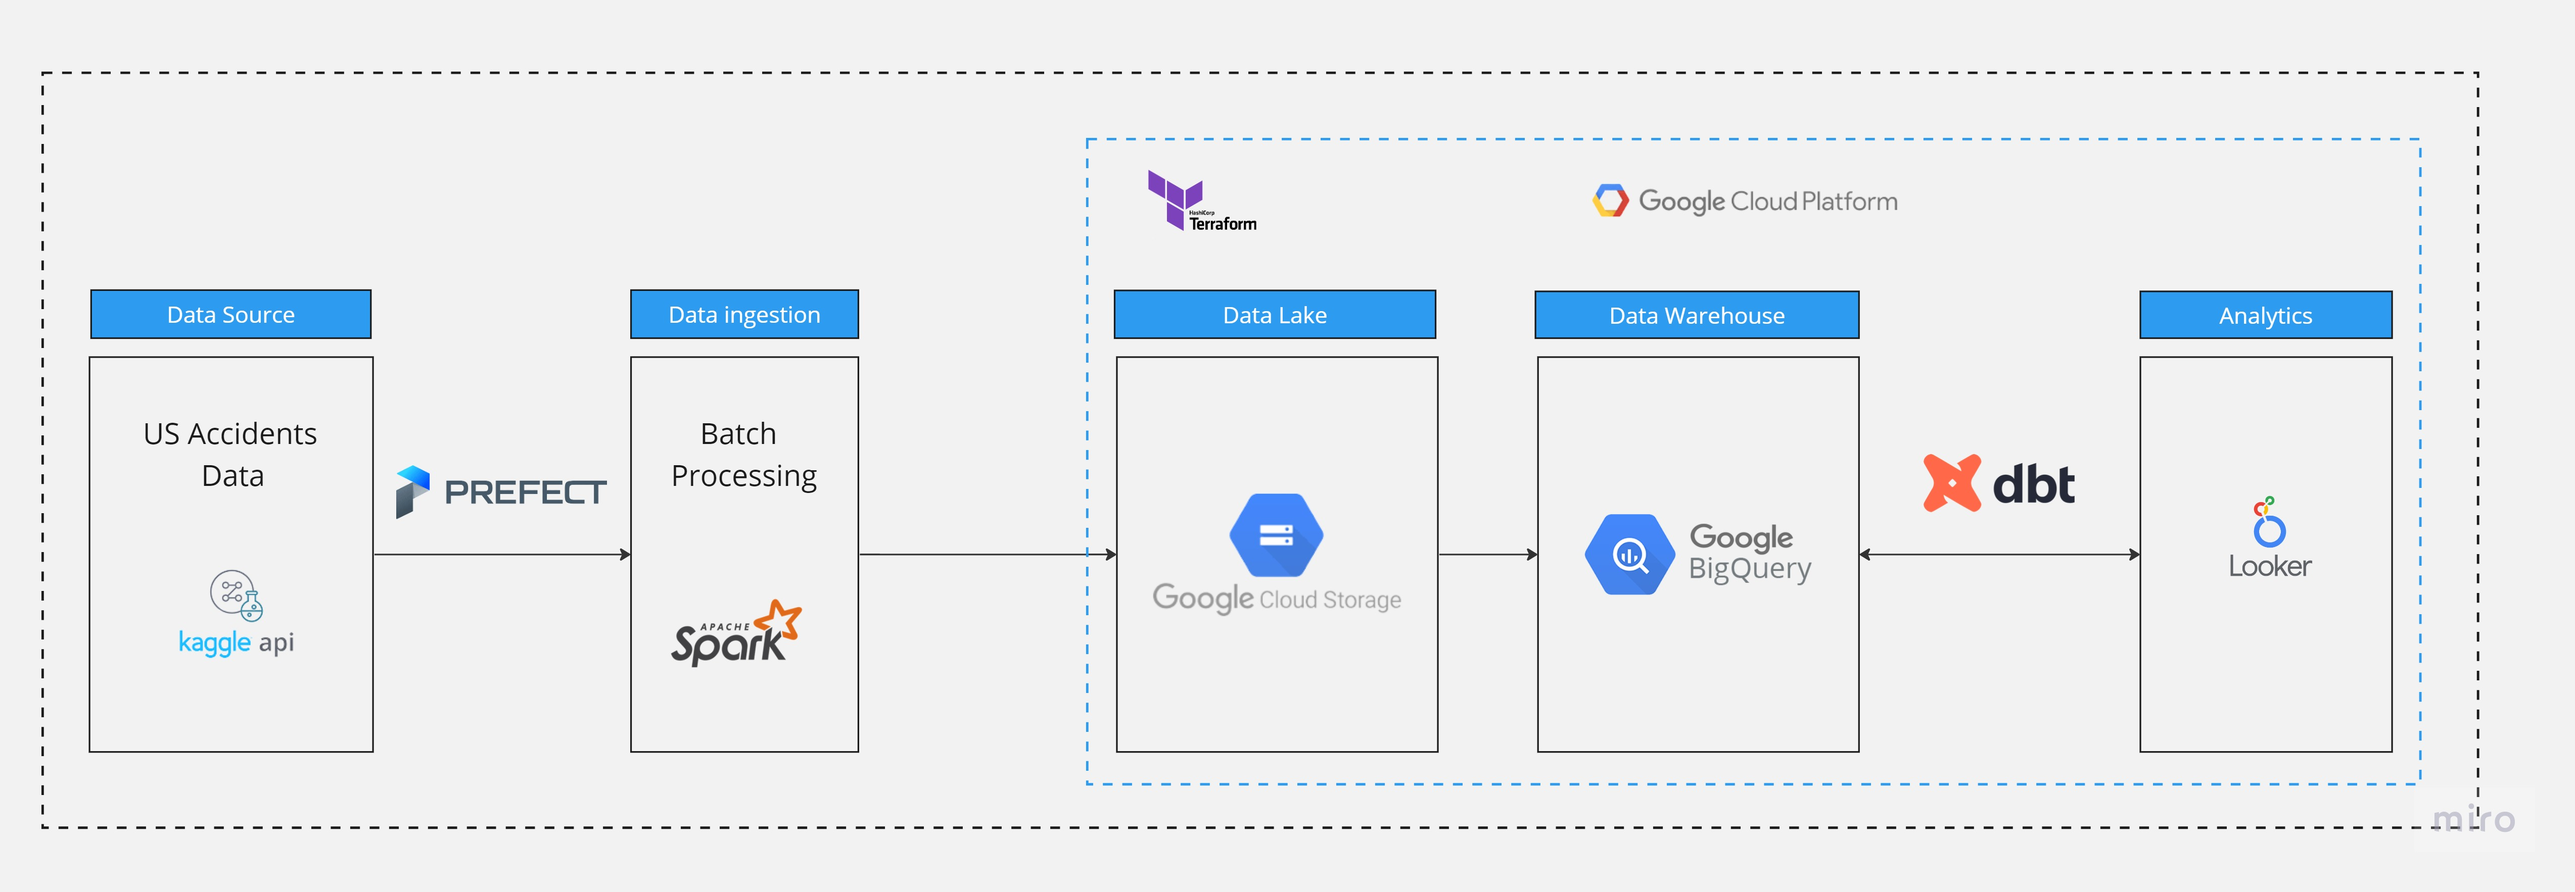
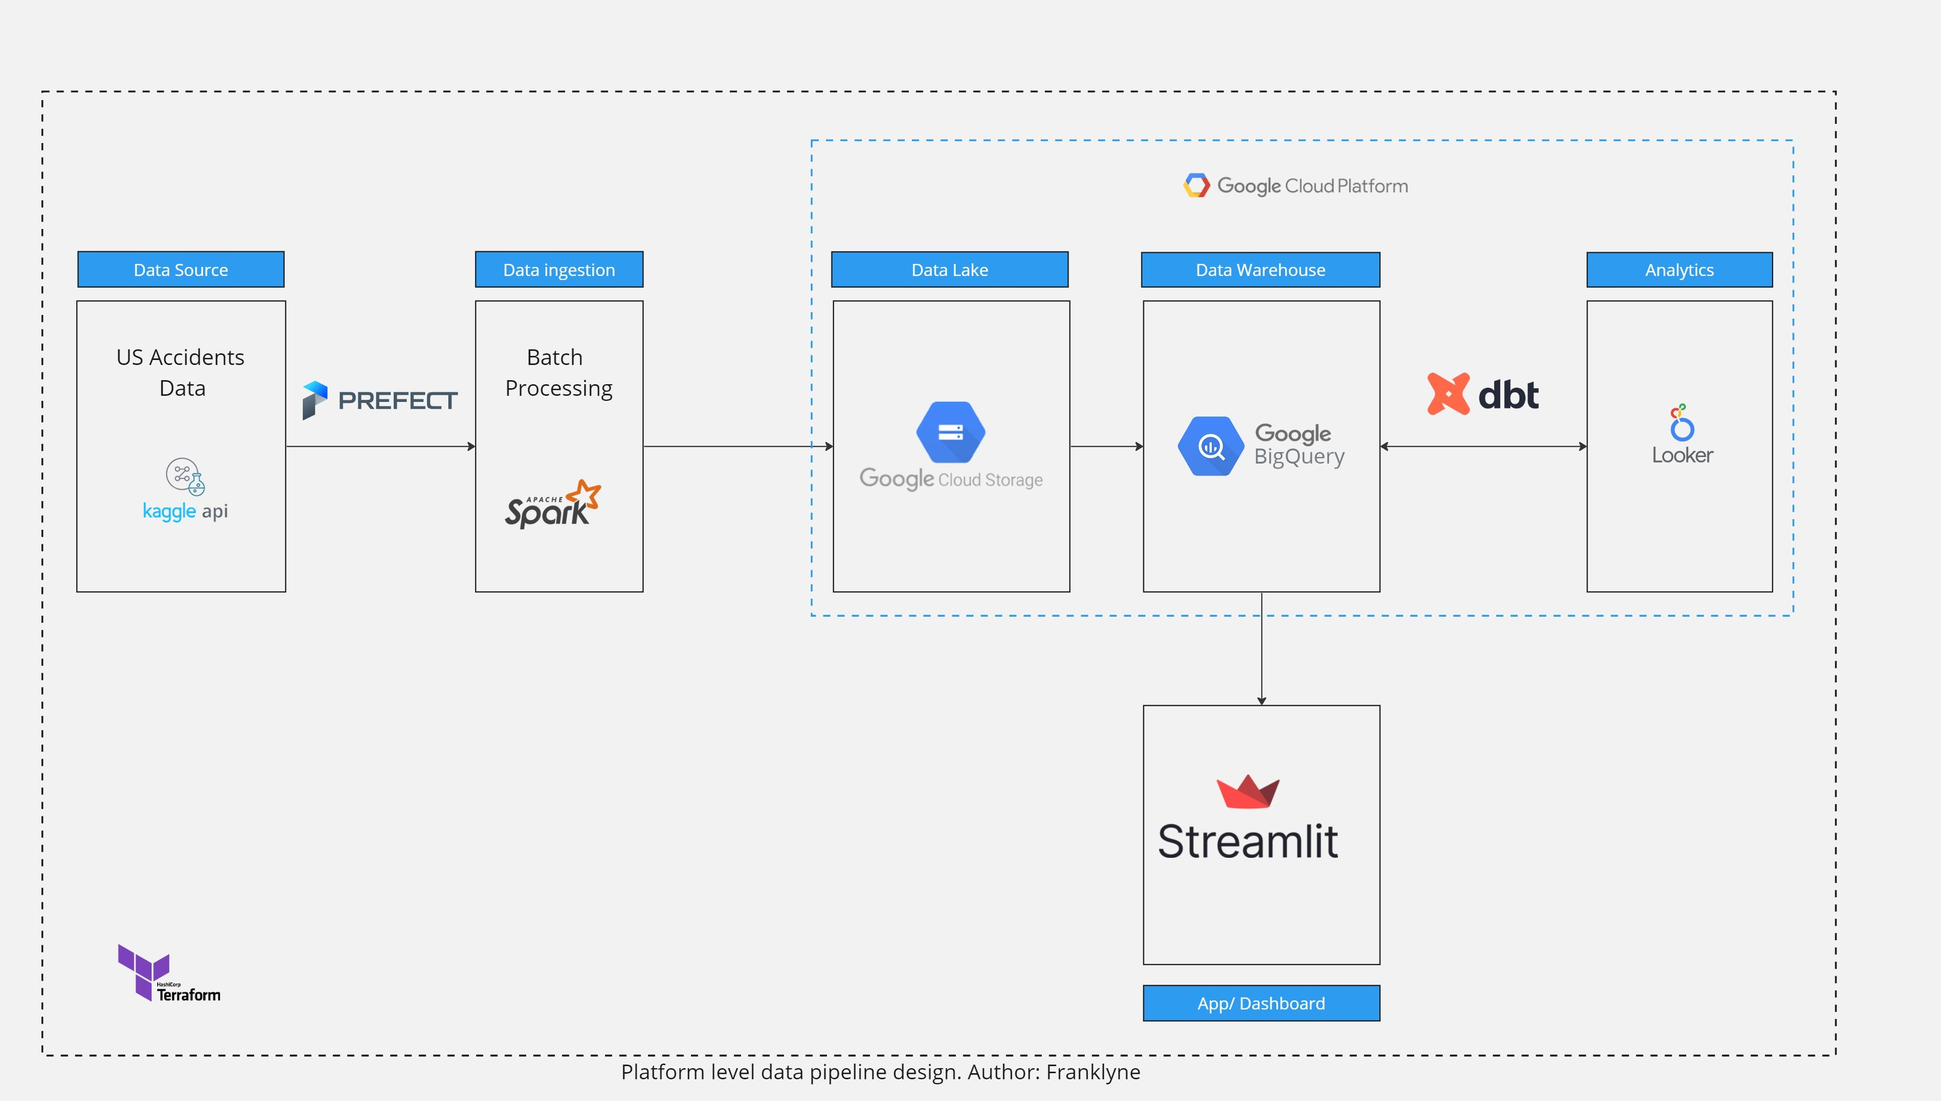
architecture

diff --git a/streamlit/dashboard.py b/streamlit/dashboard.py
@@ -1,0 +1,91 @@
+import pandas as pd 
+import streamlit as st 
+import seaborn as sns 
+import matplotlib.pyplot as plt 
+import plotly.express as px 
+import plotly.graph_objects as go 
+from google.cloud import bigquery 
+import os
+
+# Authenticate with Google Cloud 
+creds_path = os.environ['GOOGLE_APPLICATION_CREDENTIALS']
+client = bigquery.Client.from_service_account_json(creds_path)
+
+# Define a function to load data from BigQuery 
+@st.cache_data 
+def load_data(): 
+    query = """ 
+        SELECT severity,severity_description,state,city,weather_condition
+        FROM `de-project-franklyne.production.fact_accidents` 
+    """ 
+    results = client.query(query).to_dataframe() 
+    return results
+
+# Load the US Accidents dataset into a DataFrame 
+accidents = load_data() 
+
+# Set app title
+st.title("US Accidents Analysis")
+
+# Display total count of accidents
+# st.write(f"Total number of accidents: {accidents.shape[0]}")
+
+# Sidebar options 
+analysis_type = st.sidebar.selectbox("Select Analysis Type", ("Accidents by State", "Accidents by City", "Accident Severity by Weather Condition", "Accident Severity Distribution")) 
+
+# Accidents by State 
+if analysis_type == "Accidents by State": 
+    st.header("US Accidents by State") 
+    state_counts = accidents['state'].value_counts()[:20]
+    fig = px.bar(x=state_counts.index, y=state_counts.values)
+    
+    # Add X and Y axis labels
+    fig.update_xaxes(title_text="State")
+    fig.update_yaxes(title_text="Number of Accidents")
+    
+    st.plotly_chart(fig)
+
+# Accidents by City
+elif analysis_type == "Accidents by City":
+    st.header("US Accidents by City")
+    city_counts = accidents['city'].value_counts().sort_values(ascending=False)[:20]
+    fig, ax = plt.subplots()
+    sns.barplot(x=city_counts.index, y=city_counts.values, ax=ax)
+
+    # Add X and Y axis labels
+    ax.set_xlabel("City")
+    ax.set_ylabel("Number of Accidents")
+
+    # Add plot title
+    ax.set_title("Number of Accidents by City")
+
+    plt.xticks(rotation=90)
+    
+    # Set figure size to fit Streamlit app
+    fig.set_size_inches(12, 8)
+    
+    st.pyplot(fig)
+
+# Accident Severity by Weather Condition 
+elif analysis_type == "Accident Severity by Weather Condition": 
+    st.header("Accident Severity by Weather Condition") 
+    weather_severity = accidents.groupby('weather_condition')['severity'].mean().sort_values(ascending=False) 
+    fig = px.bar(x=weather_severity.index, y=weather_severity.values) 
+    
+    # Add X and Y axis labels
+    fig.update_xaxes(title_text="Weather Condition")
+    fig.update_yaxes(title_text="Severity")
+    
+    st.plotly_chart(fig) 
+
+# Accident Severity Distribution 
+elif analysis_type == "Accident Severity Distribution":
+    st.header("Accident Severity Distribution")
+    severity_counts = accidents['severity_description'].value_counts()
+    values = severity_counts.values.tolist()
+    labels = severity_counts.index.tolist()
+    colors = px.colors.qualitative.Pastel
+    fig = go.Figure(data=[go.Pie(labels=labels, values=values, hole=.3)])
+    fig.update_traces(marker=dict(colors=colors))
+    fig.update_layout(title="Percentage of Accidents by Severity Level")
+    st.plotly_chart(fig)

diff --git a/README.md b/README.md
@@ -126,7 +126,7 @@ The project dataWarehouse used is google bigquery. Visit [datawarehouse.md](./da
 ## Dashboard
 
 Looker studio dashboard:
-![dashbiard](resources/images/dashboard/dashboard.png)
+![dashboard](resources/images/dashboard/dashboard.png)
 
 The link to lookerstudio dashboard showing the analytics of US Accidents countrywide Traffic Accident Dataset. Visit [dashboard](https://lookerstudio.google.com/reporting/6024d9e4-f49e-42ea-949f-2fc0f67cad39) for more information.
 
